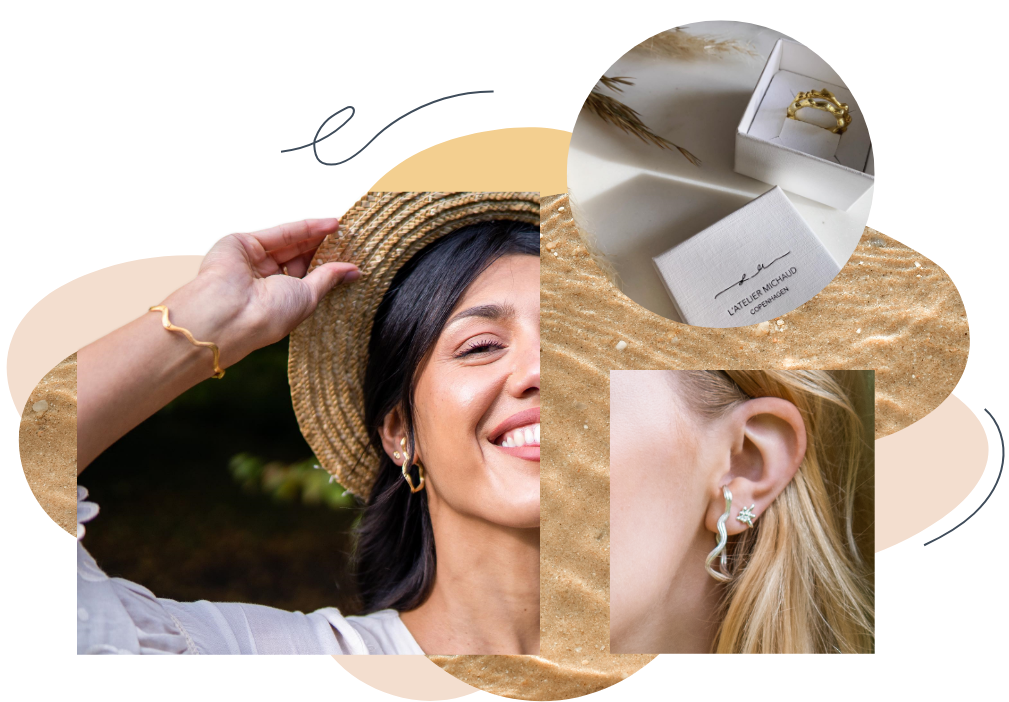
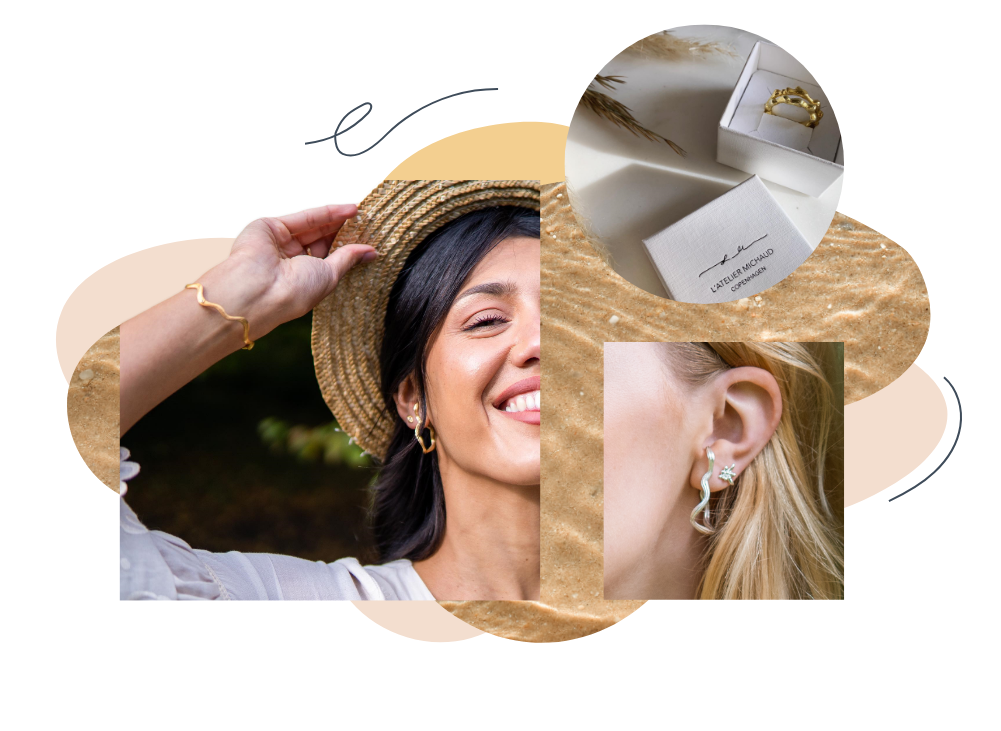
small changes on slider

diff --git a/home.css b/home.css
@@ -129,7 +129,8 @@ main {
 #hero_section_1-grid {
     display: grid;
     grid-template-columns: 0.5fr 1fr 1fr 1fr 1fr 1fr 1fr 1fr 1fr 0.5fr;
-    grid-template-rows: 20px auto 25px 25px 1.5vw;
+    /* grid-template-rows: 20px auto 25px 25px 1.5vw; */
+    grid-template-rows: 20px 600px 20px 25px 14px;
     grid-column-gap: 20px;
     grid-row-gap: 5px;
     /* height: auto; */
@@ -159,6 +160,8 @@ main {
     display: block;
     margin-left: auto;
     margin-right: auto;
+
+    max-height: 650px;
 }
 
 #slider_pagination {
@@ -253,9 +256,9 @@ main {
         grid-column-gap: 10px;
         grid-row-gap: 0;
     
-        /* height: auto; */
+        height: auto;
 
-        height: 650px;
+        /* height: 650px; */
     }
 
     
